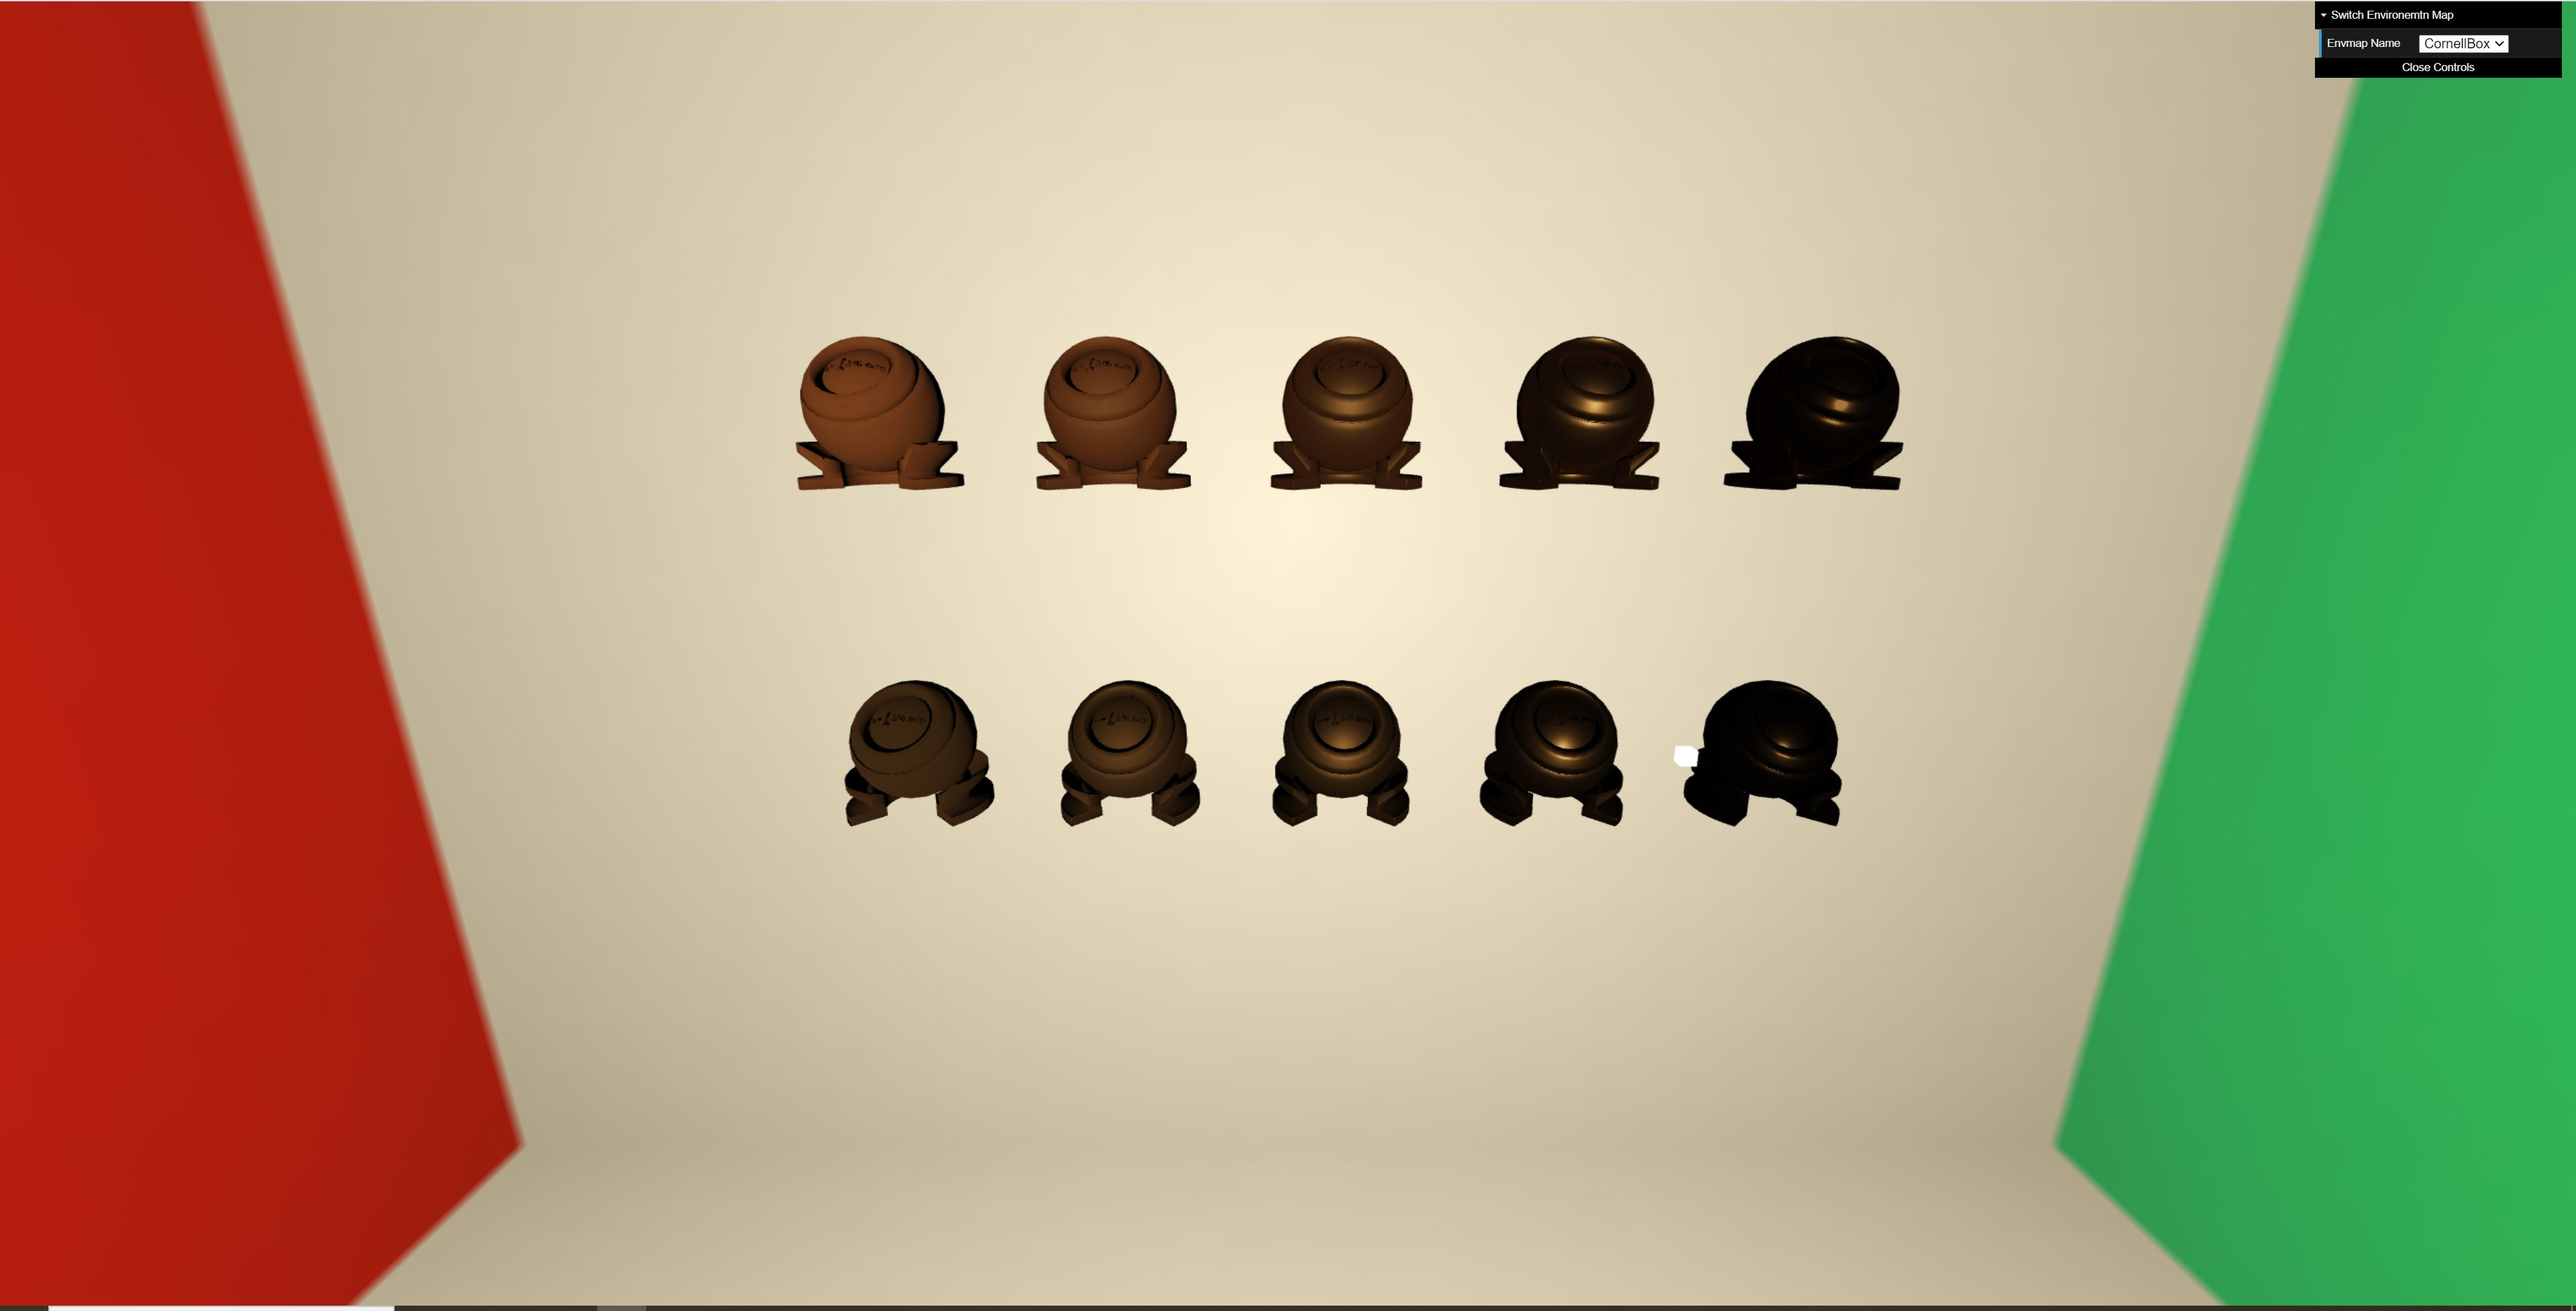
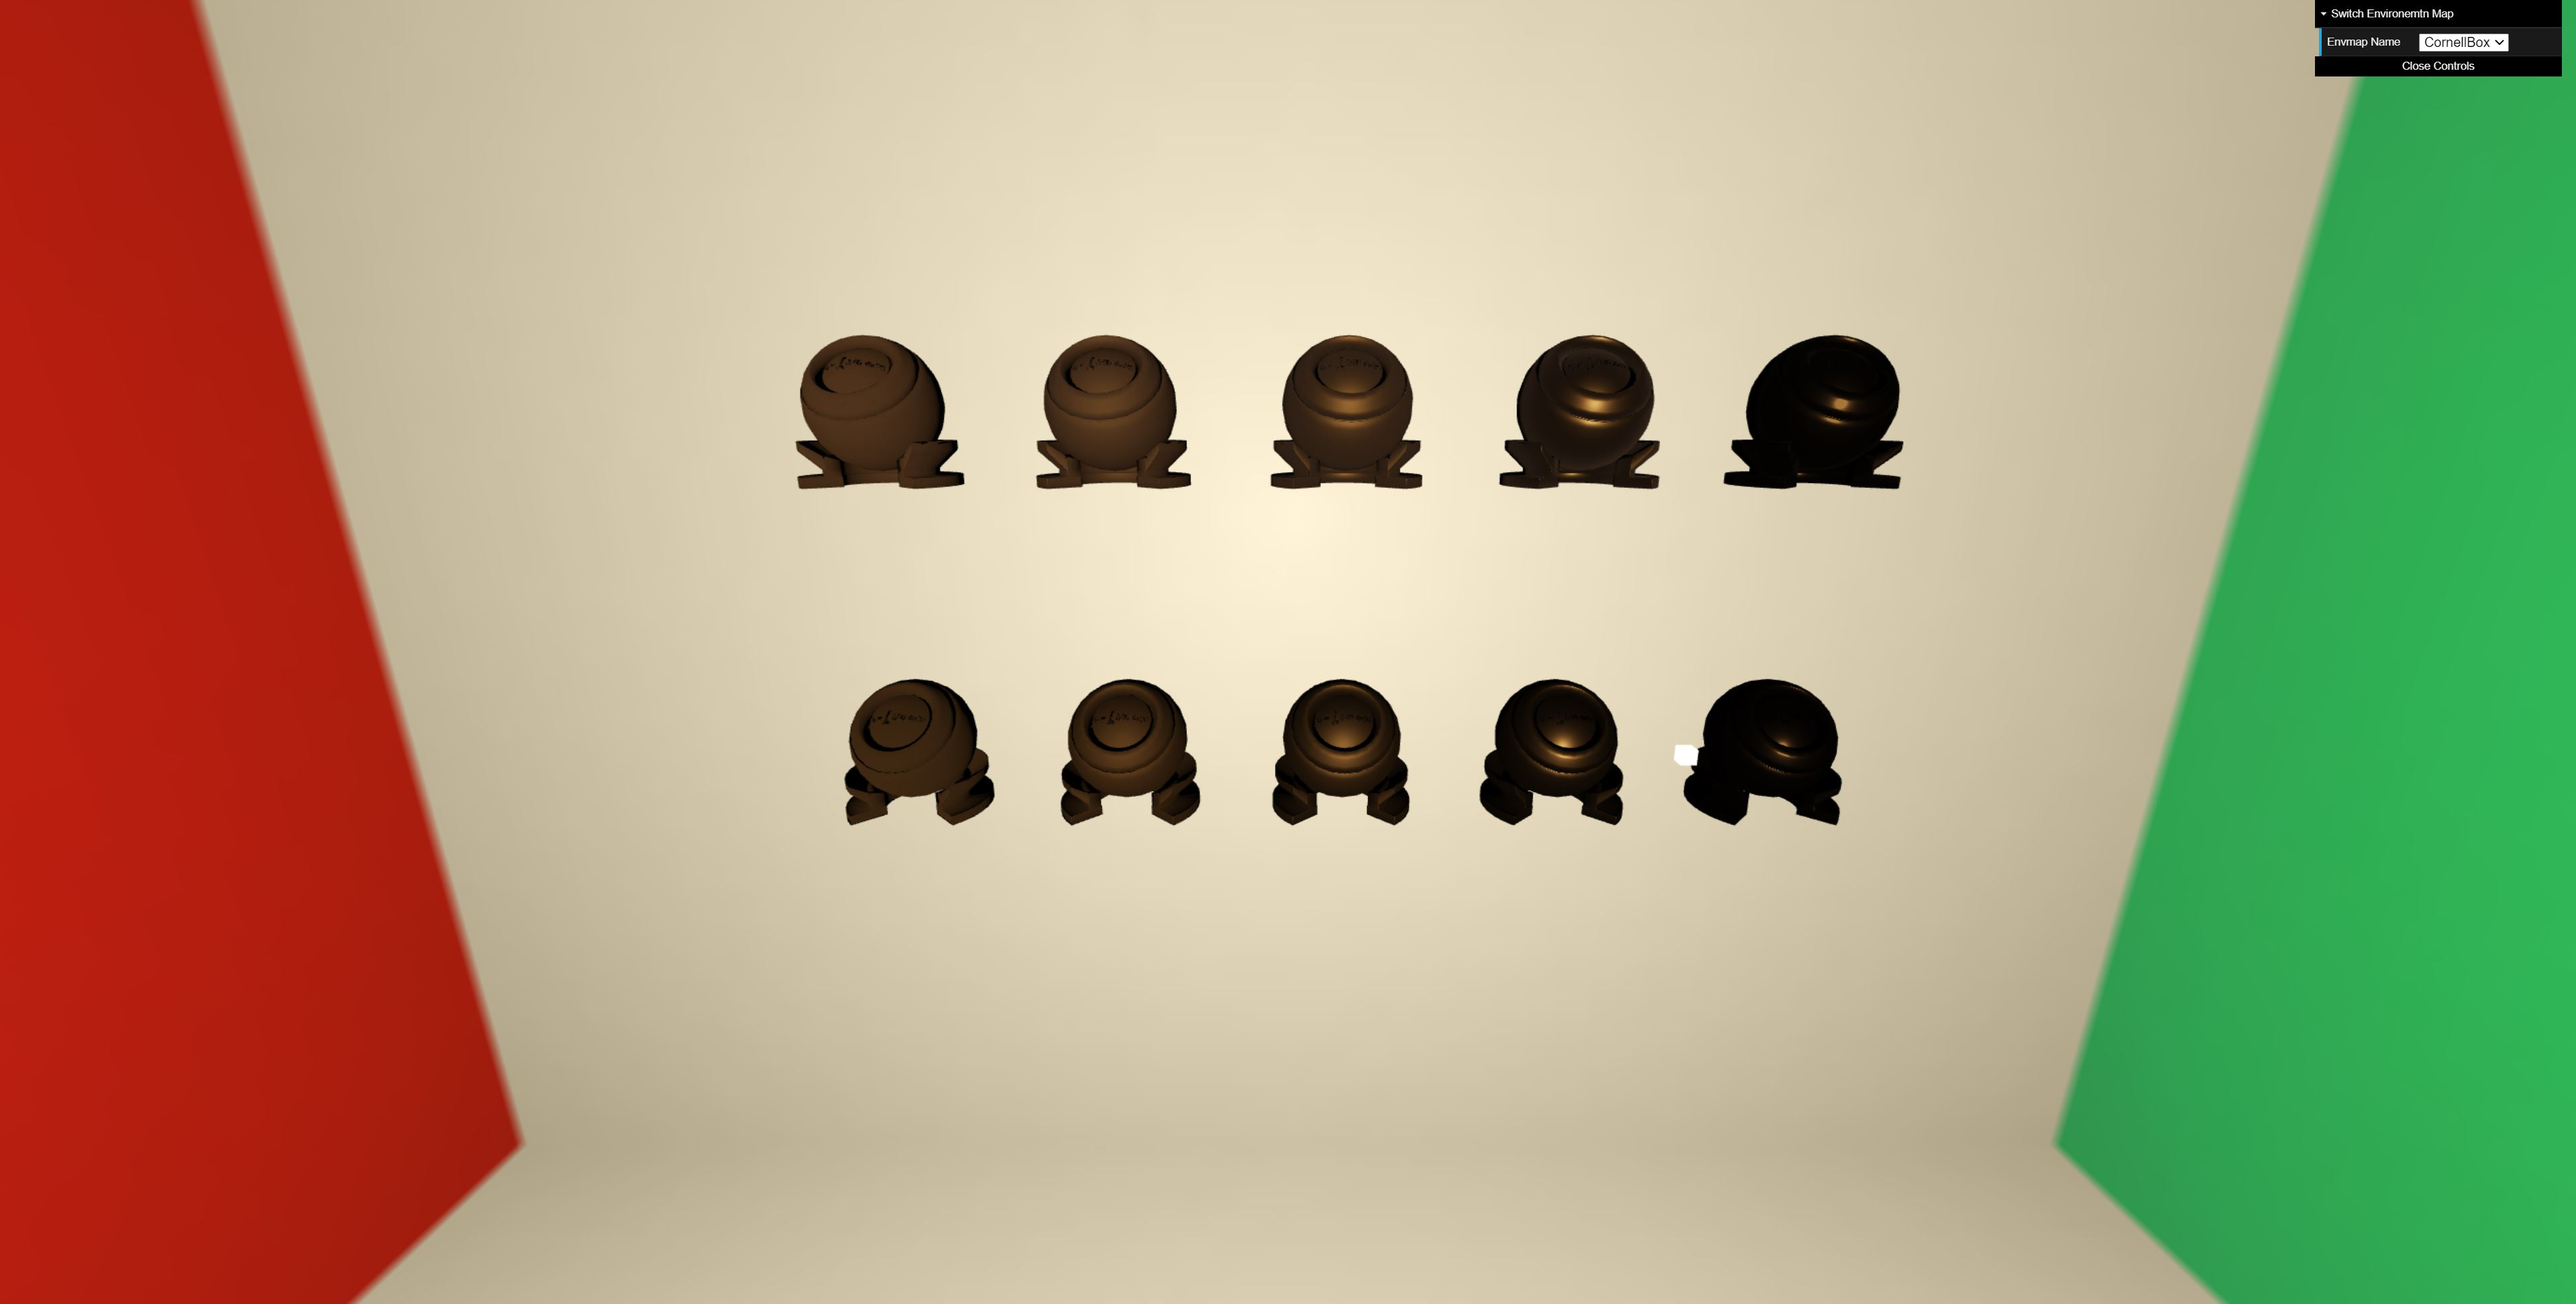
update

diff --git a/assignments/hw4/homework4-SplitSum/src/materials/KullaContyMaterial.js b/assignments/hw4/homework4-SplitSum/src/materials/KullaContyMaterial.js
@@ -6,7 +6,7 @@ class KullaContyMaterial extends Material {
             'uMetallic': { type: '1f', value: metallic },
             'uRoughness': { type: '1f', value: roughness },
             'uBRDFLut': { type: 'texture', value: BRDFLut },
-            'uEavgFLut': { type: 'texture', value: EavgLut },
+            'uEavgLut': { type: 'texture', value: EavgLut },
             
             'uCubeTexture': { type: 'CubeTexture', value: null },
             'uLightRadiance': { type: '3fv', value: light.lightRadiance },

diff --git a/assignments/hw4/homework4/src/materials/KullaContyMaterial.js b/assignments/hw4/homework4/src/materials/KullaContyMaterial.js
@@ -6,7 +6,7 @@ class KullaContyMaterial extends Material {
             'uMetallic': { type: '1f', value: metallic },
             'uRoughness': { type: '1f', value: roughness },
             'uBRDFLut': { type: 'texture', value: BRDFLut },
-            'uEavgFLut': { type: 'texture', value: EavgLut },
+            'uEavgLut': { type: 'texture', value: EavgLut },
             
             'uCubeTexture': { type: 'CubeTexture', value: null },
             'uLightRadiance': { type: '3fv', value: light.lightRadiance },
